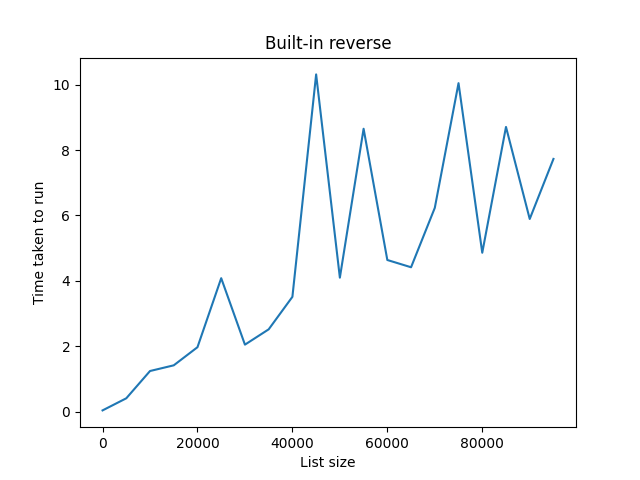
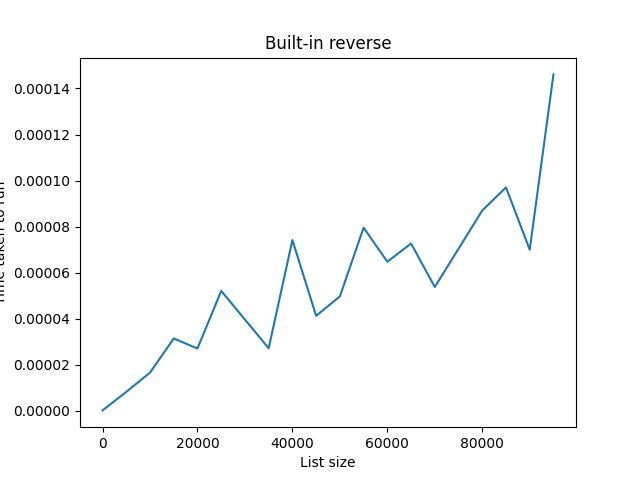
removed the return statement from the built-in files. (it was throwing an error because it was not within a function

diff --git a/merge_sort.py b/merge_sort.py
@@ -7,7 +7,7 @@ def merge_sort_data(list):
         return list
     mid = len(list) // 2
     # recursively split the list in two, sorting each half and calling the merge method on the final result
-    return merge(left=merge_sort_data(list[:mid]), right=merge_sort_data(list[mid:]))
+    return merge(left_list_sorted=merge_sort_data(list[:mid]), right_list_sorted=merge_sort_data(list[mid:]))
 
 
 def merge(left_list_sorted, right_list_sorted):
@@ -33,17 +33,17 @@ def merge(left_list_sorted, right_list_sorted):
                 merged_result += right[idx_right:]
                 break
             if idx_right == len(right):
-                merged_results += left[idx_left:]
+                merged_result += left[idx_left:]
                 break
         return merged_result
 
 
 # create array of integers in increments of 5000 up to 100,000
 listSizes = list(range(0, 100000, 5000))
-# print(listSizes)
+print(listSizes)
 idx = 0
 times = []
-# create testLists in every size, with elements as integers between 1 and 20. Assign to setupCode.
+# in the setup code, we create testLists in every size, with elements as integers between 1 and 20. setupCode is separated from the algorithm being tested so that the timer is based solely on the algorithm itself rather than generating the test arrays
 for size in listSizes:
     setupCode = f"""
 from merge_sort import merge_sort_data
@@ -53,11 +53,12 @@ testList = random.choices((range(1, 20)), k={size})
     codeToRun = """
 merge_sort_data(testList)
 """
-    # setupCode should be separated from the sort function so that the timer is based solely on the sort_function itself rather than generating the test arrays
+
     time = calcRunTime(setupCode, codeToRun)
     print(f"Average time taken to run {size} element list: {time}")
     idx += 1
     times.append(time)
+
 
 print(times)
 

diff --git a/built_in_shuffle.py b/built_in_shuffle.py
@@ -1,6 +1,5 @@
 import matplotlib.pyplot as plt
 from timing_framework import calcRunTime
-import random
 
 # create list of integers in increments of 5000 up to 100,000
 listSizes = list(range(0, 100000, 5000))
@@ -13,12 +12,11 @@ for size in listSizes:
 import random
 testList = random.choices((range(1, 20)), k={size})
 """
-    shuffle_function = f"""
+    codeToRun = """
 random.shuffle(testList)
-return testList
 """
     # setupCode should be separated from the reverse function so that the timer is based solely on the reverse_function itself rather than generating the test arrays
-    time = calcRunTime(setupCode, shuffle_function)
+    time = calcRunTime(setupCode, codeToRun)
     print(f"Average time taken to run {size} element list: {time}")
     idx += 1
     times.append(time)
@@ -32,5 +30,3 @@ plt.xlabel("List size")
 
 plt.show()  # display the graph
 plt.savefig("./graphed_results/built_in_shuffle.png")  # savefig, don't show
-
-#

diff --git a/timing_framework.py b/timing_framework.py
@@ -2,12 +2,7 @@ import timeit
 
 
 def calcRunTime(setupCode, codeToRun):
-    # number = 1 so it only runs the code once, but repeats 5 times so I can take an average
-
-    runTimes = timeit.repeat(setup=setupCode, stmt=codeToRun, repeat=5, number=1)
-    sum = 0
-    # add the 5 runtimes together and divide to get the average
-    for i in runTimes:
-        sum += i
-    averageTime = sum / 5
-    return averageTime * 100000  # multiply it by 100000 just to make it easier to read
+    # number = 1 so it only runs the code once, but repeats 10 times so I can take an average
+    runTimes = timeit.repeat(setup=setupCode, stmt=codeToRun, repeat=10, number=1)
+    print(sum(runTimes) / 10)
+    return sum(runTimes) / 10

diff --git a/built_in_sort.py b/built_in_sort.py
@@ -14,12 +14,12 @@ for size in listSizes:
 {testList}
 print(f"now running sort with {size} element list")
 """
-    sort_function = f"""
+    codeToRun = f"""
 {testList}.sort()
 return {testList}
 """
     # setupCode should be separated from the reverse function so that the timer is based solely on the reverse_function itself rather than generating the test arrays
-    time = calcRunTime(setupCode, sort_function)
+    time = calcRunTime(setupCode, codeToRun)
     print(f"Average time taken to run array {size} element list: {time}")
     idx += 1
     times.append(time)

diff --git a/reverse.py b/reverse.py
@@ -30,11 +30,11 @@ import random
 testList = random.choices((range(1, 20)), k={size})
 
 """
-    reverse_function = """
+    codeToRun = """
 reverse_data(testList)
 """
     # setupCode should be separated from the reverse function so that the timer is based solely on the reverse_function itself rather than generating the test arrays
-    time = calcRunTime(setupCode, reverse_function)
+    time = calcRunTime(setupCode, codeToRun)
     print(f"Average time taken to run array {size} element list: {time}")
     idx += 1
     times.append(time)

diff --git a/built_in_reverse.py b/built_in_reverse.py
@@ -14,7 +14,7 @@ testList = random.choices((range(1, 20)), k={size})
 """
     reverse_function = f"""
 testList.reverse()
-return testList
+
 """
     # setupCode should be separated from the reverse function so that the timer is based solely on the reverse_function itself rather than generating the test arrays
     time = calcRunTime(setupCode, reverse_function)

diff --git a/README.md b/README.md
@@ -8,11 +8,20 @@ The amount of time, storage and/or other resources necessary to execute an algor
 
 #### My task
 
-I created a framework to time different algorithms and compare their efficiency. It plots results using matplotlib. First I tested out python in-built functions e.g. sort. Then I wrote my own, trying to be as efficient as possible. I ran the code on varying sizes of arrays.
+I created a framework to time different algorithms and compare their efficiency. It plots results using matplotlib. First I tested out python in-built functions e.g. sort. Then I wrote my own, trying to be as efficient as possible.
 
-Not sure why but my calcRunTime seems to be running twice
+To run the code on varying sizes of python lists, I created a listSizes list, which is looped over within the setup code to create a testList with 0 elements, then with 5000 elements, then with 10000 elements etc:
 
-#### Numpy array vs list efficiency
+```
+listSizes =
+[0, 5000, 10000, 15000, 20000, 25000, 30000, 35000, 40000, 45000, 50000, 55000, 60000, 65000, 70000, 75000, 80000, 85000, 90000, 95000]
+```
+
+So the codeToRun will run on 20 different lists increasing in size by increments of 5000.
+
+Not sure why but all my self-written algorithm files seems to be running twice and so I get two lines on the graphs. The built-in files only run once.
+
+#### Notes to self: Numpy array vs list efficiency
 
 Generally numpy arrays are more efficient and scalable than python lists. Most processing in numpy is vectorized, meaning the operations can run simultaneously on multiple elements rathen than iterating through each element individually like with a list. Numpy arrays also take up less space than lists (we can check this with getsizeof(list))
 HOWEVER, on SMALL lists: List comprehensions are faster than doing the same with numpy as the performance gain from using numpy is not enough to offset the overhead of creating an array.
